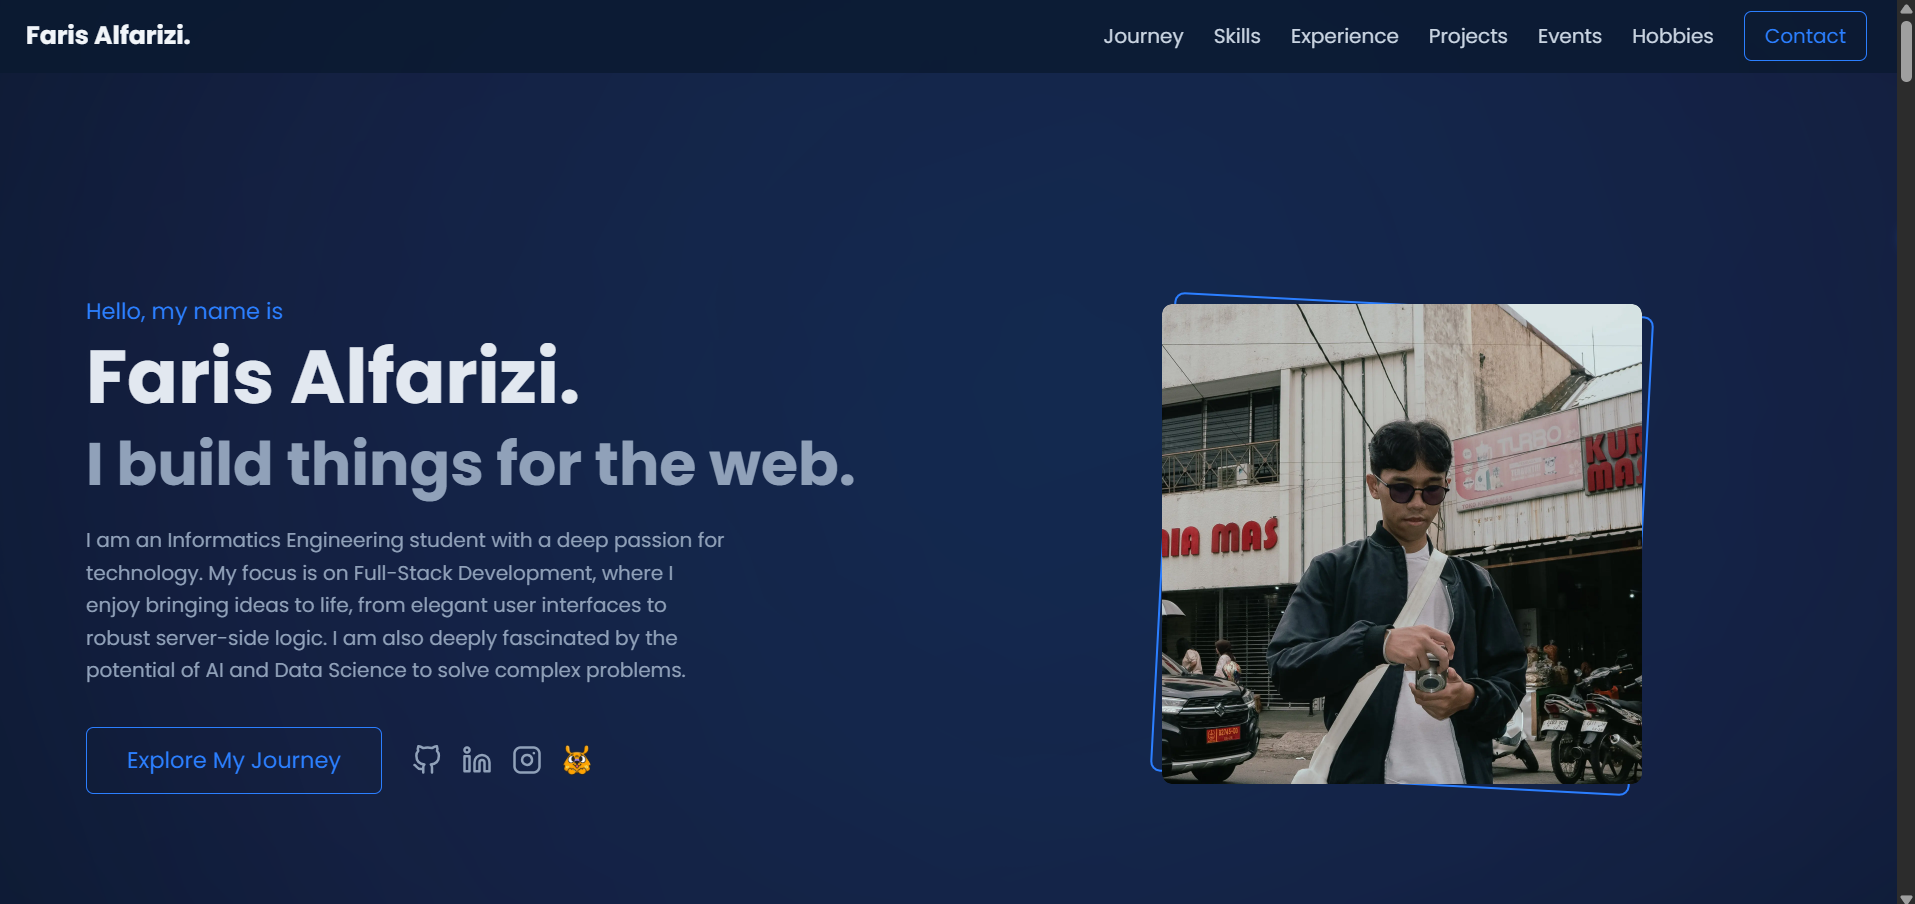
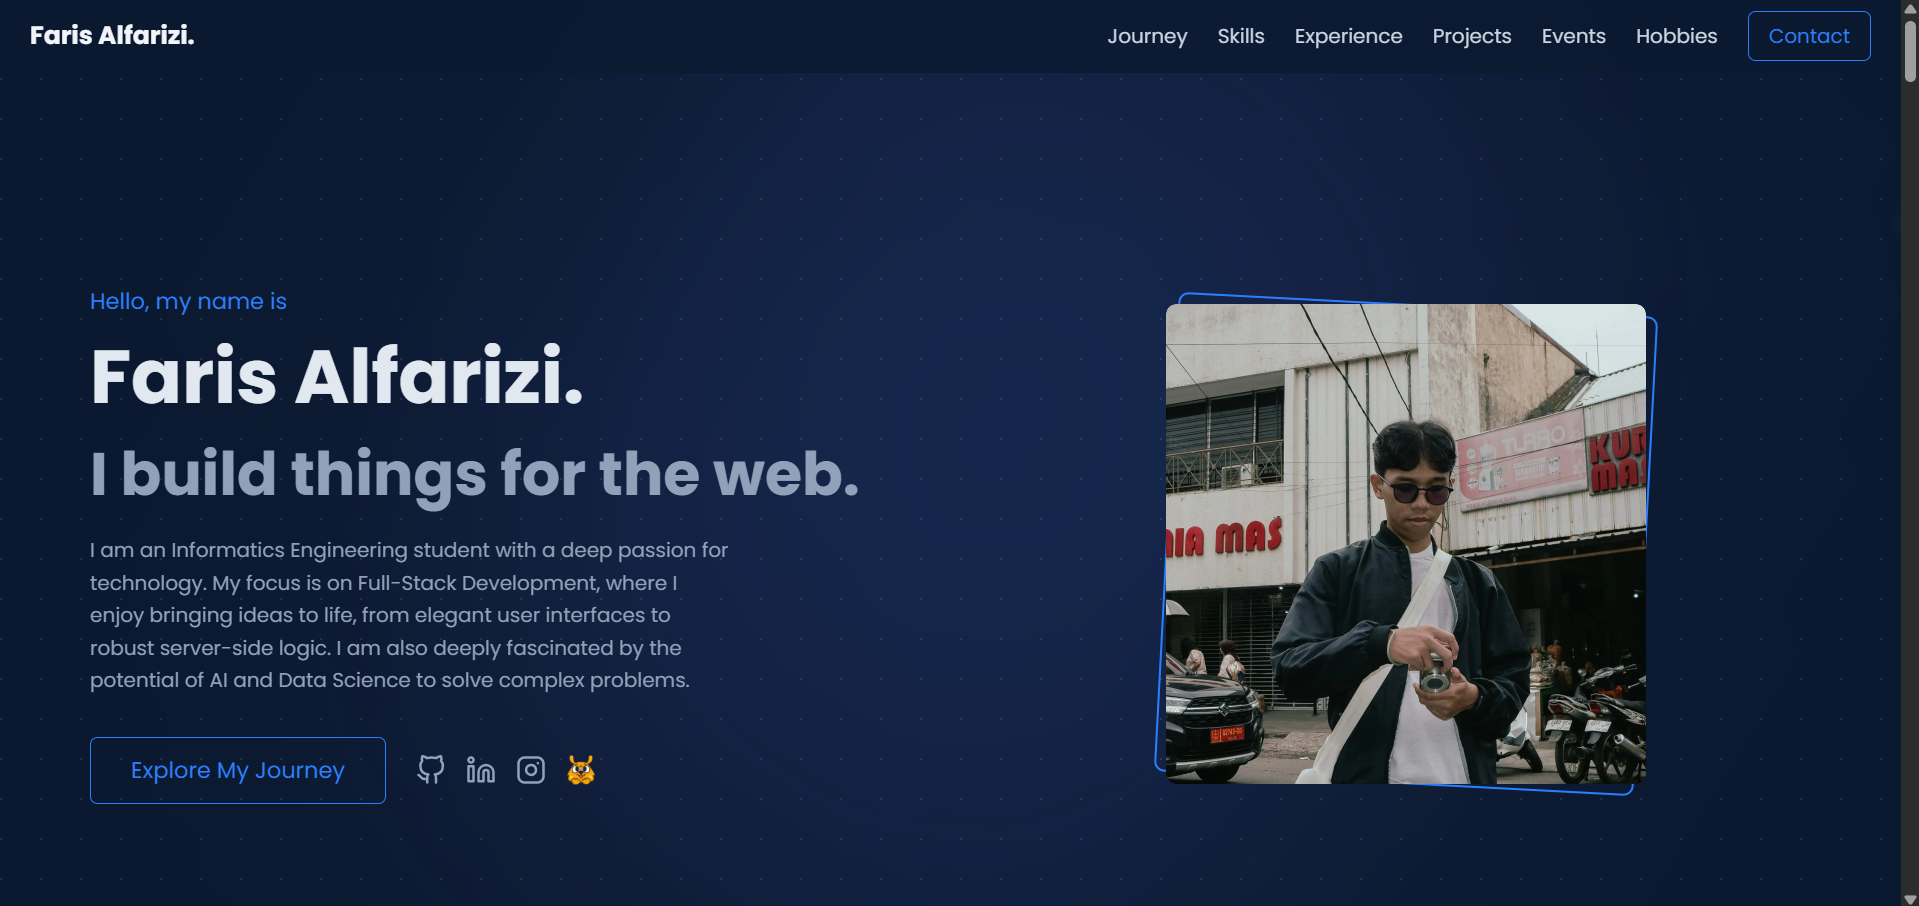
Add dot pattern and edit effect

diff --git a/src/app/globals.css b/src/app/globals.css
@@ -1,5 +1,16 @@
 @import "tailwindcss";
 
+.dot-pattern {
+  position: fixed;
+  top: 0;
+  left: 0;
+  width: 100%;
+  height: 100%;
+  background-image: radial-gradient(circle at 1px 1px, rgba(255, 255, 255, 0.1) 1px, transparent 0);
+  background-size: 2rem 2rem;
+  z-index: -10;
+}
+
 body {
   background-color: #0a192f;
   color: rgb(203 213 225);
@@ -28,12 +39,12 @@ html {
   top: 50%;
   left: 50%;
   transform: translate(-50%, -50%);
-  width: 150vw;
-  height: 150vh;
+  width: 87vw;
+  height: 87vh;
   background: radial-gradient(circle, rgba(59, 130, 246, 0.3) 0%, rgba(139, 92, 246, 0.15) 50%, rgba(10, 25, 47, 0) 70%);
   filter: blur(120px);
   opacity: 0.6; 
-  animation: aurora-move 30s ease-in-out infinite; 
+  animation: aurora-move 20s ease-in-out infinite; 
   z-index: -10;
 }
 

diff --git a/src/components/Hero.tsx b/src/components/Hero.tsx
@@ -49,7 +49,7 @@ const Hero = () => {
   }, [controls]);
 
   return (
-    <section id="hero" className="min-h-screen flex items-center pt-6 md:pt-0">
+    <section id="hero" className="min-h-screen flex items-center pt-6 md:pt-0 overflow-hidden">
       <div className="container mx-auto px-6 md:px-6 lg:px-8 xl:px-10 2xl:px-12">
         <div className="grid grid-cols-1 md:grid-cols-2 gap-10 md:gap-10 lg:gap-20 items-center">
           {/* Kolom Teks (Kiri) */}

diff --git a/src/app/layout.tsx b/src/app/layout.tsx
@@ -20,6 +20,7 @@ export default function RootLayout({
       <body className={poppins.className}>
         {useIsDesktop() && <CustomCursor />}
         <div className="aurora-background"></div>
+        <div className="dot-pattern"></div>
         {children}
       </body>
     </html>
